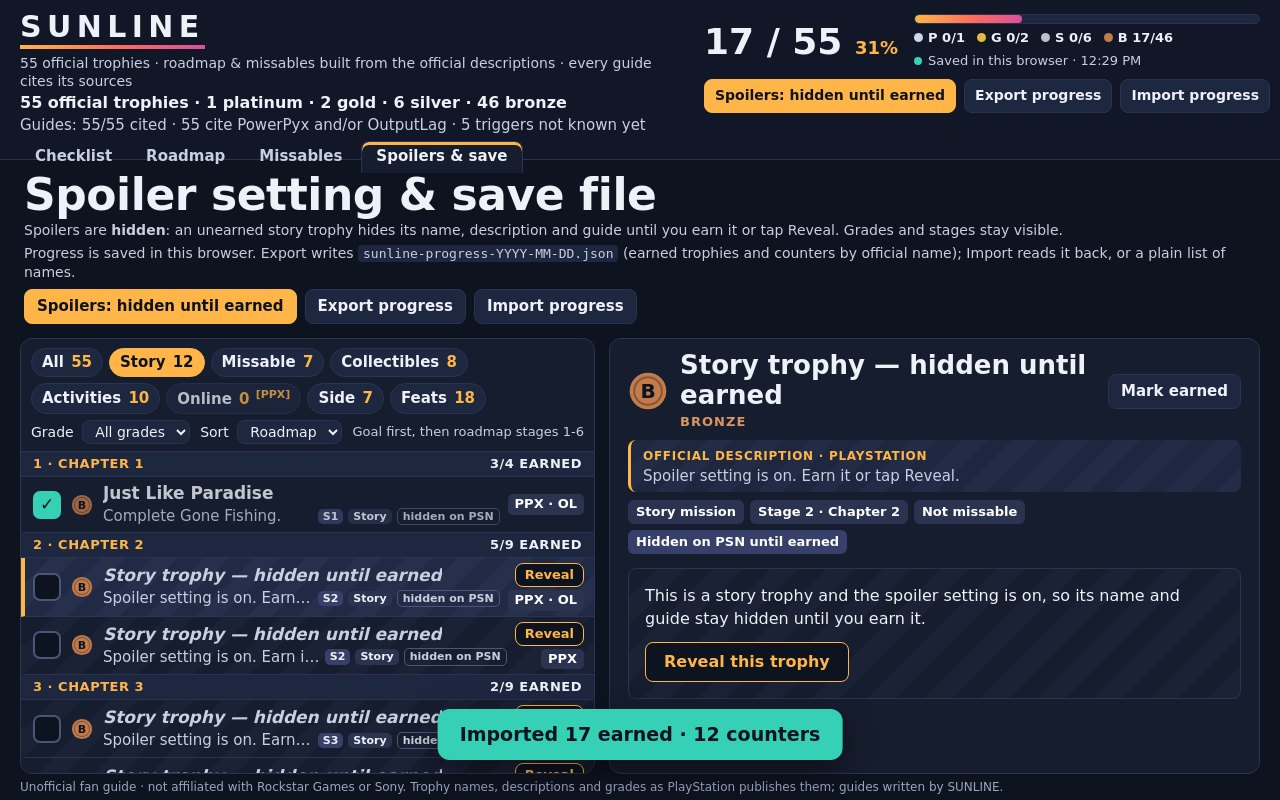
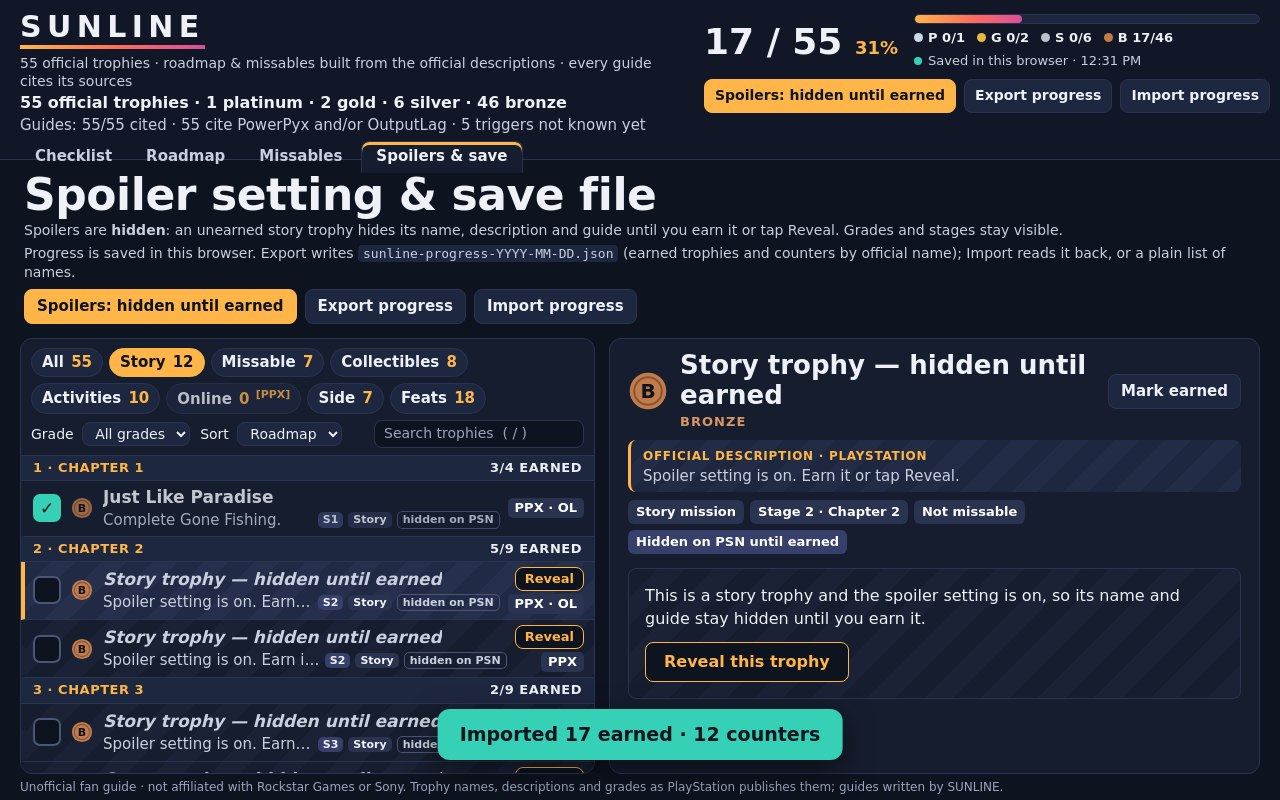
SUNLINE M2b: search box (/ focuses it); shots re-taken

Changed region(s): [[0.0312, 0.5312, 0.4688, 0.9375], [0.1562, 0.5312, 0.25, 0.5625], [0.4062, 0.9375, 0.4688, 0.9688]]

diff --git a/app/js/boot.js b/app/js/boot.js
@@ -215,6 +215,19 @@ function wireEvents(state) {
     else return;
     render(state);
   });
+  const search = document.getElementById("search");
+  search.addEventListener("input", () => {
+    state.query = search.value;
+    render(state);
+  });
+  // "/" jumps to the search box from anywhere outside a text field.
+  document.addEventListener("keydown", (event) => {
+    if (event.key !== "/" || event.ctrlKey || event.metaKey) return;
+    if (event.target.closest("input, select, textarea")) return;
+    event.preventDefault();
+    if (state.route !== "checklist") writeHash(state, { route: "checklist" });
+    search.focus();
+  });
   document.getElementById("spoiler-switch").addEventListener("click", () => toggleSpoilers(state));
   document.getElementById("export-progress").addEventListener("click", () => exportFromState(state));
   document.getElementById("import-progress").addEventListener("change", (event) => {

diff --git a/app/css/sunline.css b/app/css/sunline.css
@@ -178,7 +178,21 @@ body[data-route="roadmap"] .view, body[data-route="missables"] .view { grid-temp
 
 .tool select { padding: 2px 8px; font-size: 14px; margin-left: 4px; }
 
-.tool-note { color: var(--desc); font-size: 13px; margin-left: auto; }
+.tools-dyn { display: contents; }
+
+#search {
+  margin-left: auto;
+  width: 210px;
+  font: inherit;
+  font-size: 14px;
+  color: var(--text);
+  background: var(--page);
+  border: 1px solid var(--line);
+  border-radius: var(--r-ctl);
+  padding: 3px 9px;
+}
+
+#search::placeholder { color: var(--muted); }
 
 .trophy-list { list-style: none; margin: 0; padding: 0; overflow-y: auto; flex: 1; min-height: 0; }
 

diff --git a/app/index.html b/app/index.html
@@ -44,7 +44,9 @@ official descriptions · every guide cites its sources</p>
 <section id="save-banner" class="banner" hidden></section>
 <section id="checklist" class="list-col" aria-label="Trophy checklist">
 <nav id="filters" aria-label="Story, Missable, Collectibles, Activities, Online"></nav>
-<div id="list-tools" class="list-tools"></div>
+<div class="list-tools"><span id="list-tools" class="tools-dyn"></span>
+<input id="search" type="search" placeholder="Search trophies  ( / )" aria-label="Search trophies">
+</div>
 <ol id="trophy-list" class="trophy-list"></ol>
 </section>
 <aside id="guide-pane" class="guide-pane" aria-label="Trophy guide"></aside>

diff --git a/app/js/views/checklist-view.js b/app/js/views/checklist-view.js
@@ -70,8 +70,7 @@ function listToolsHtml(state) {
     `<label class="tool">Sort <select id="sort-select" data-action="sort">` +
     opt("roadmap", "Roadmap", state.sort) +
     opt("list", "List order", state.sort) +
-    `</select></label>` +
-    `<span class="tool-note">${state.sort === "list" ? "Official list order" : "Goal first, then roadmap stages 1-6"}</span>`
+    `</select></label>`
   );
 }
 
